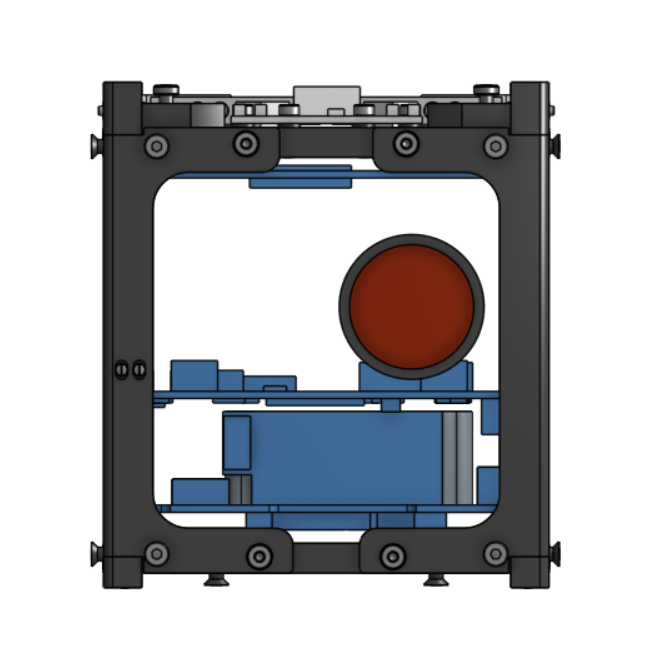
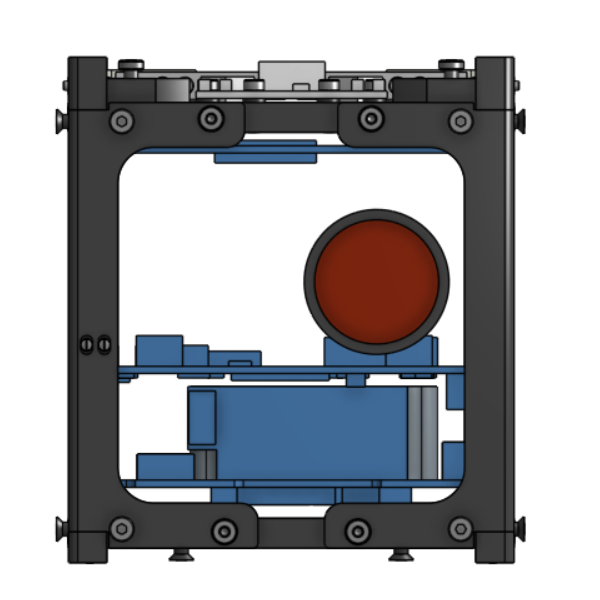
make picture square

diff --git a/public/projects/orbit/index.html b/public/projects/orbit/index.html
@@ -27,10 +27,17 @@
 <meta property="og:url" content="http://localhost:1313/projects/orbit/" />
 
 
+  
+<meta property="og:image" content="http://localhost:1313/projects/orbit/aleasat_hufce6fc39e75b582b4b38db389cb95171_69656_400x0_resize_box_3.png">
+
 <meta property="article:published_time" content="2025-01-23T00:00:00+00:00" />
 
 
 
+
+
+<meta name="twitter:card" content="summary_large_image"/>
+<meta name="twitter:image" content="http://localhost:1313/projects/orbit/aleasat_hufce6fc39e75b582b4b38db389cb95171_69656_400x0_resize_box_3.png">
 
 
 
@@ -75,6 +82,9 @@ The COMMS board processes and amplifies received RF signals, so I had to design 
 
 
     
+    
+        
+        <img src="/projects/orbit/aleasat_hufce6fc39e75b582b4b38db389cb95171_69656_1000x0_resize_box_3.png" alt="aleasat.png" class="img-responsive gallery-image">
     
 
 
